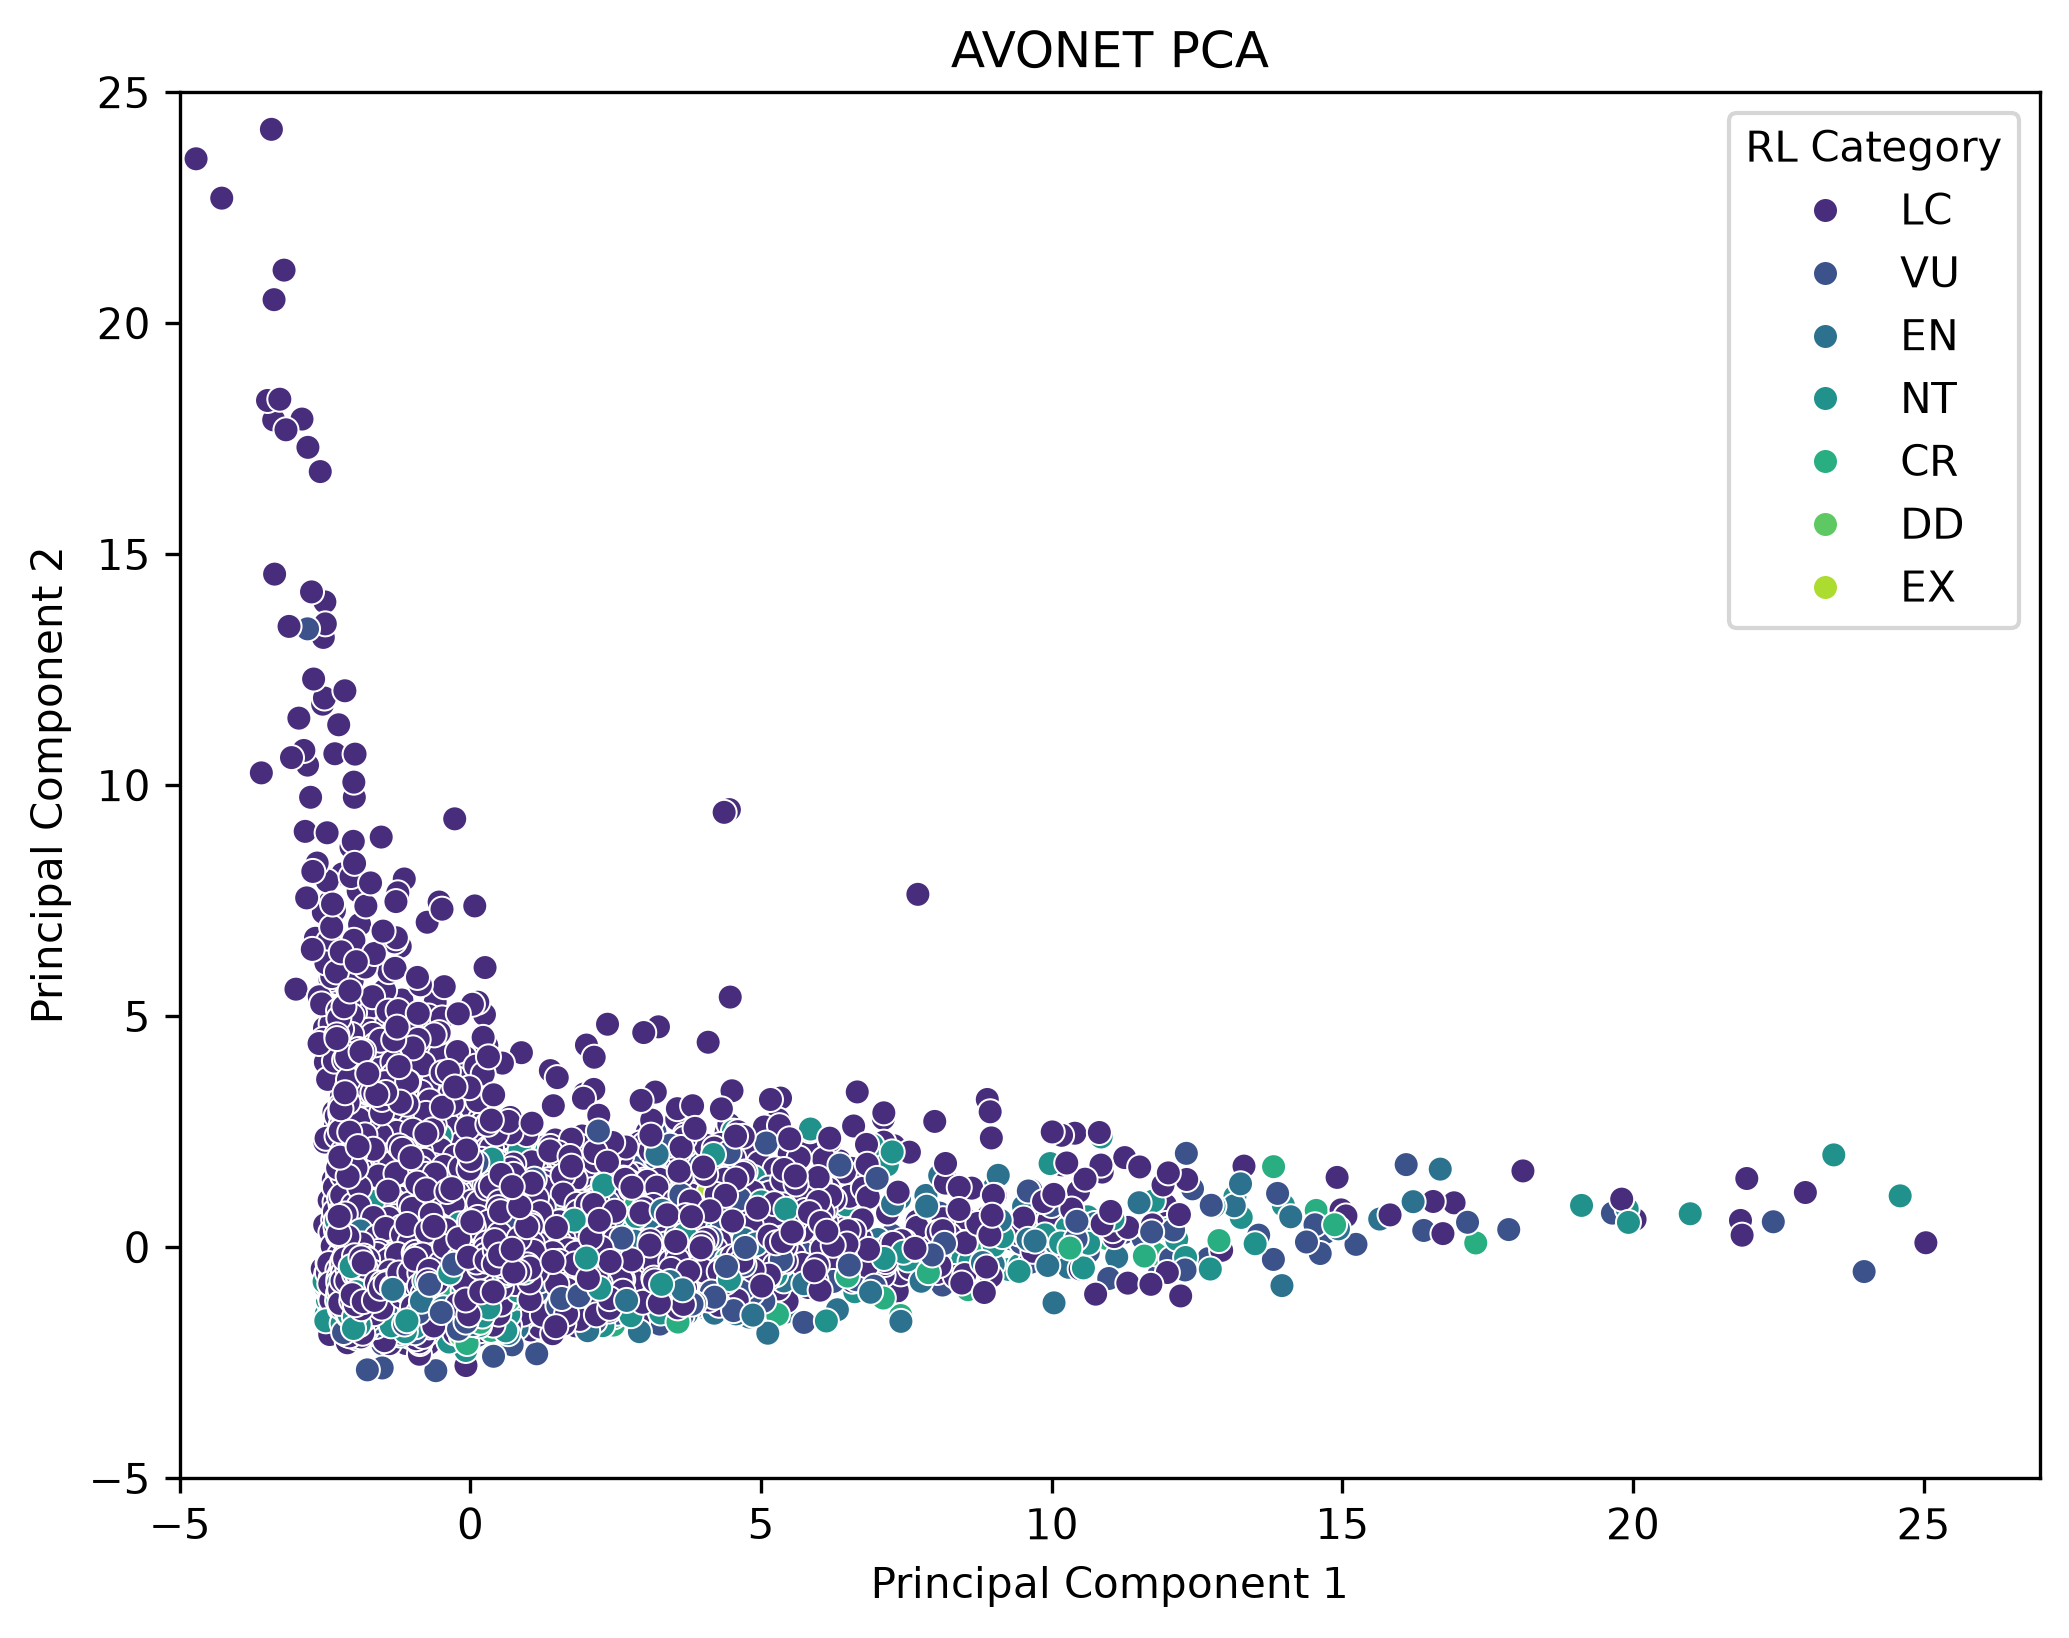
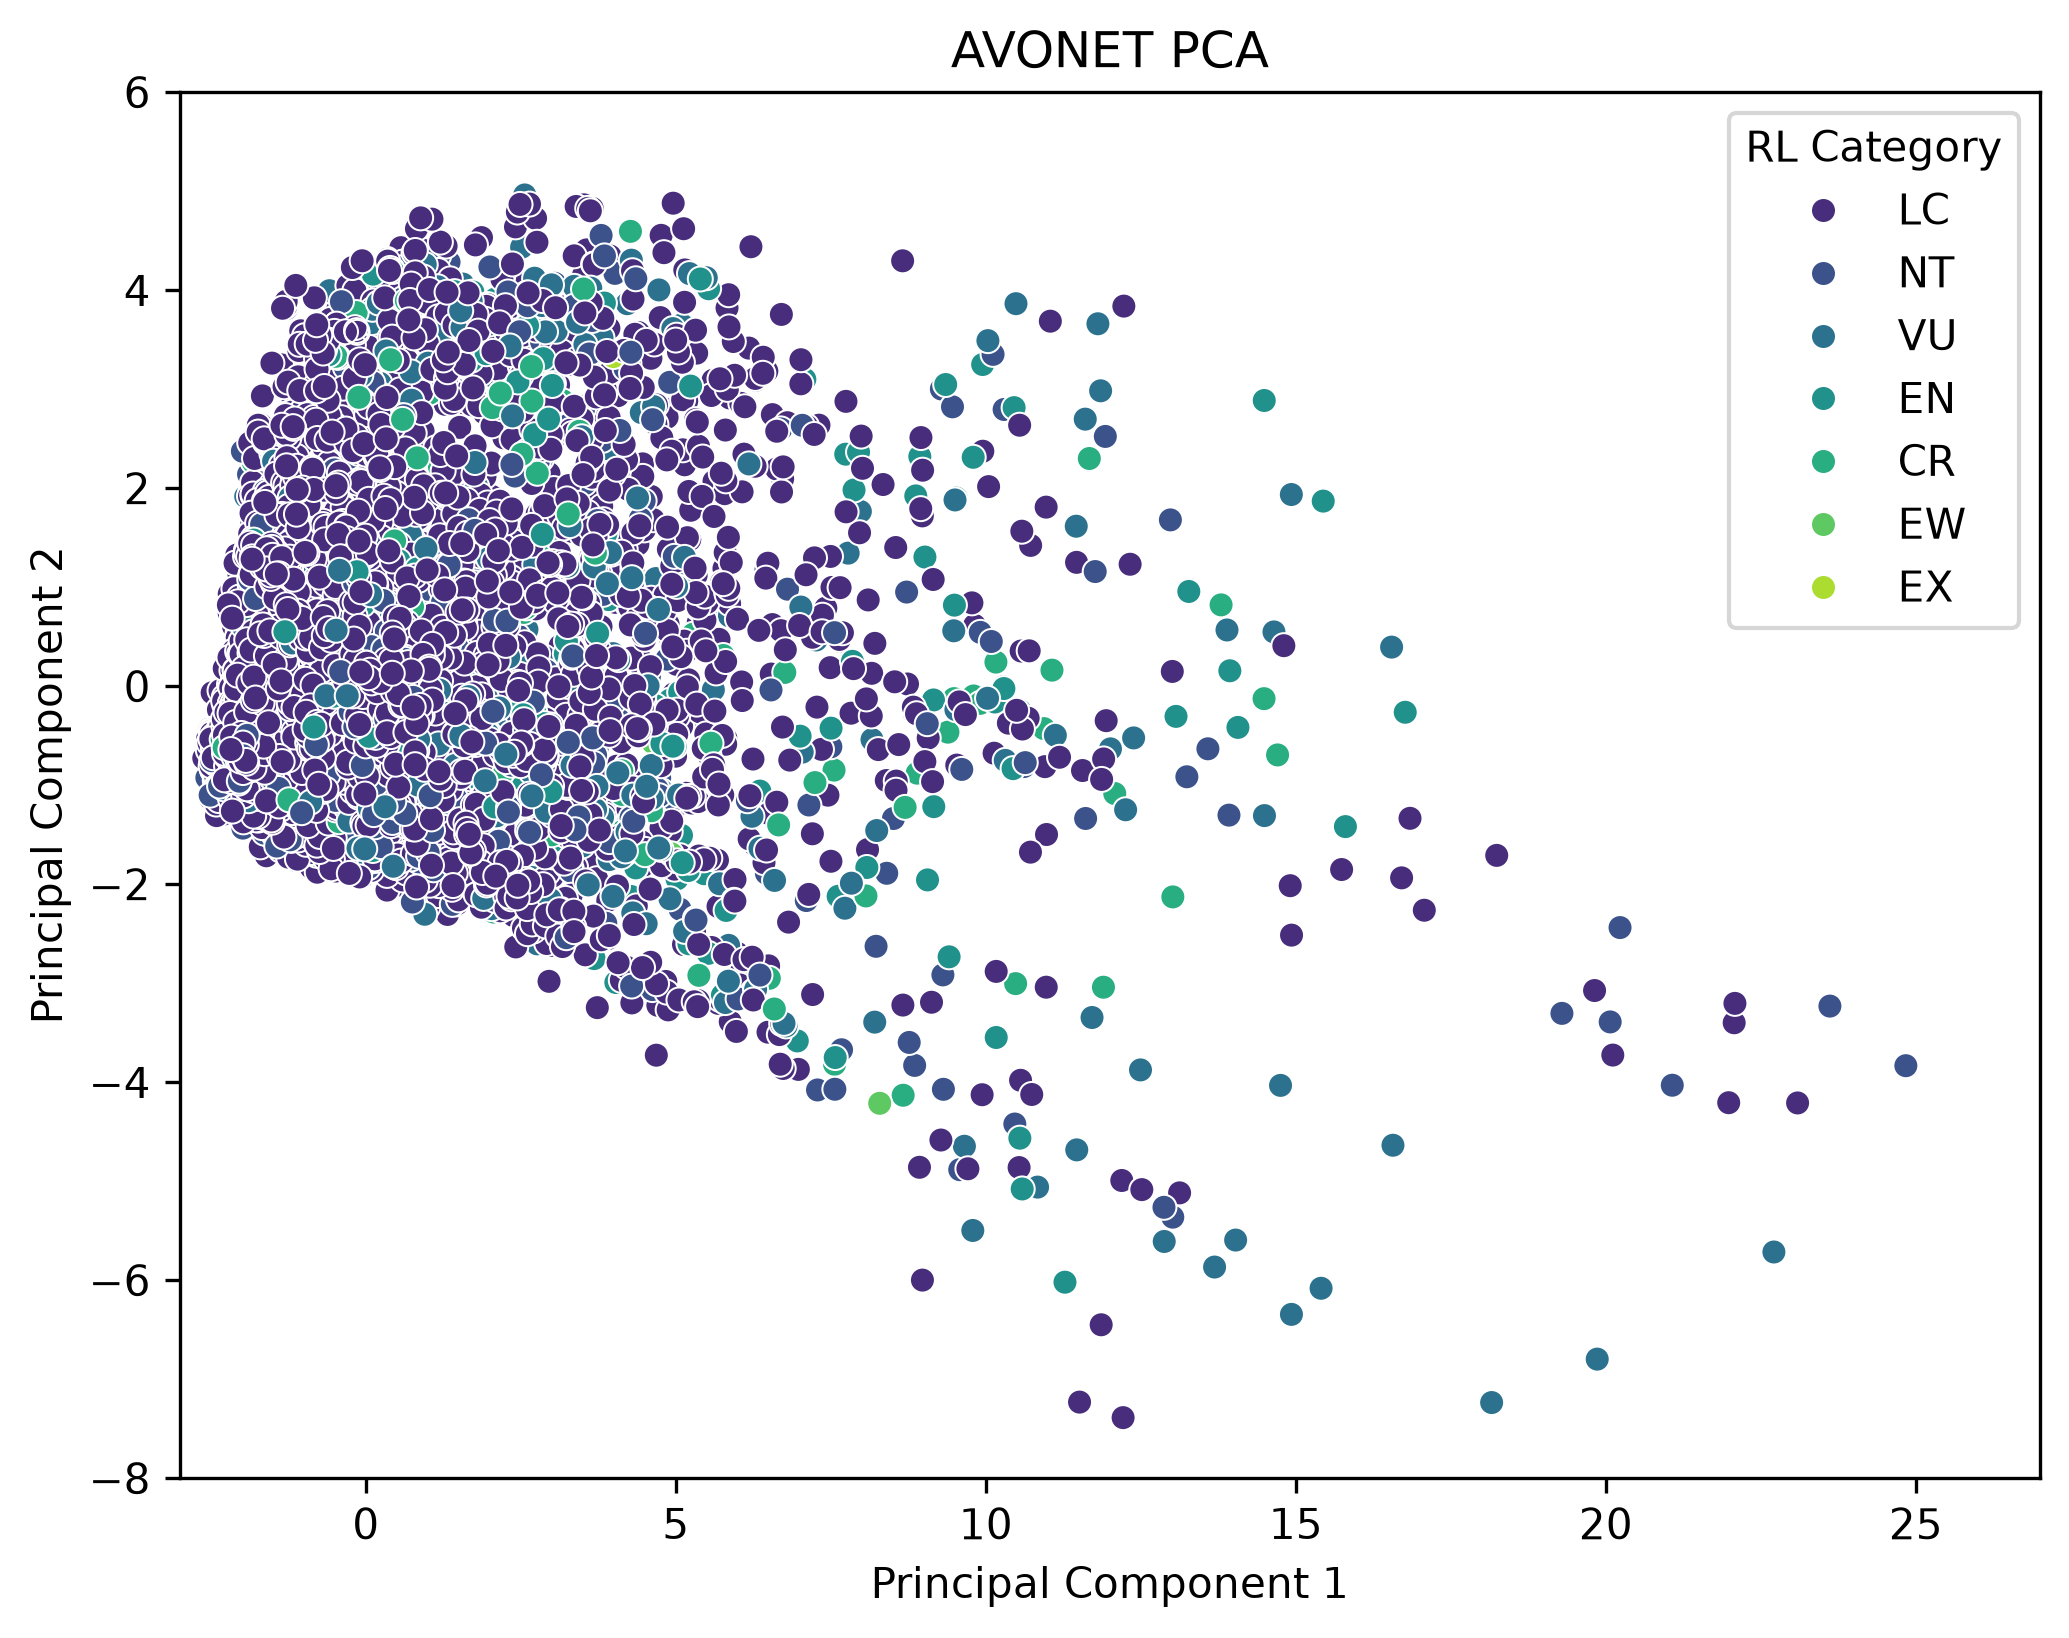
Modified PCA so it discludes certain columns and added a heatmap for the components

diff --git a/src/AVONET_PCA.py b/src/AVONET_PCA.py
@@ -7,7 +7,7 @@ from sklearn.preprocessing import StandardScaler
 from sklearn.decomposition import PCA
 
 df_AVONET_IUCN = pd.read_csv("./data/AVONET_IUCN.csv") #Reads in the AVONET_IUCN spreadsheet
-df = df_AVONET_IUCN.select_dtypes(include=[np.number]).dropna() #Selects the columns with only numbers and removes the rows with missing values
+df = df_AVONET_IUCN.drop(columns=["Total.individuals", "Female", "Male", "Unknown", "Max.Latitude", "Min.Latitude", "Centroid.Longitude", "Centroid.Latitude", "Range.Size"]).select_dtypes(include=[np.number]).dropna() #Selects the columns with only numbers and removes the rows with missing values
 IUCN_categories = df_AVONET_IUCN.loc[df.index, "RL Category"]
 scaler = StandardScaler()
 scaler.fit(df)
@@ -18,12 +18,18 @@ pca.fit(scaled_data)
 x_pca = pca.transform(scaled_data)
 
 plt.figure(figsize=(8, 6))
-sns.scatterplot(x=x_pca[:, 0], y=x_pca[:, 1], hue=IUCN_categories, palette="viridis")
+sns.scatterplot(x=x_pca[:, 0], y=x_pca[:, 1], hue=IUCN_categories, hue_order=["LC", "NT", "VU", "EN", "CR", "EW", "EX"], palette="viridis")
 plt.xlabel("Principal Component 1")
 plt.ylabel("Principal Component 2")
-plt.ylim(-5, 25)
-plt.xlim(-5, 27)
+plt.ylim(-8, 6)
+plt.xlim(-3, 27)
 plt.title("AVONET PCA")
 plt.savefig("./output/AVONET_PCA.png", dpi=300, bbox_inches="tight")
 plt.show()
 
+df_comp = pd.DataFrame(pca.components_,columns=df.columns,index=["PC1","PC2"])
+plt.figure(figsize=(16, 10))
+sns.heatmap(df_comp, annot=True, cmap="viridis")
+plt.title("AVONET PCA Components Heatmap")
+plt.show()
+plt.savefig("./output/AVONET_PCA_Components.png", dpi=300, bbox_inches="tight")